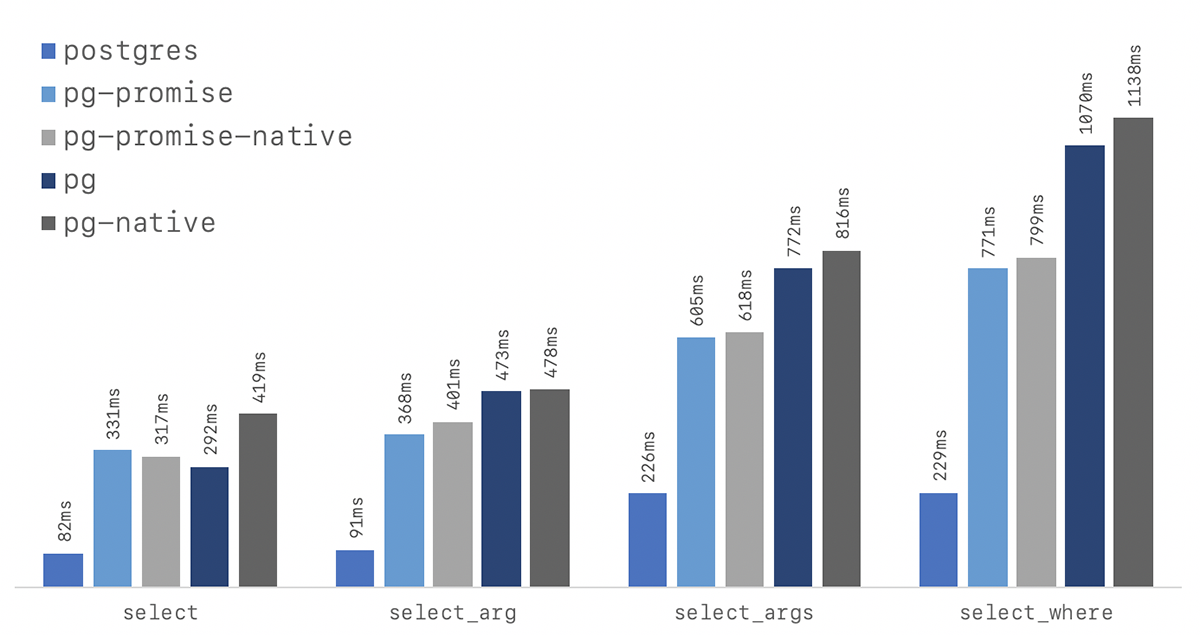
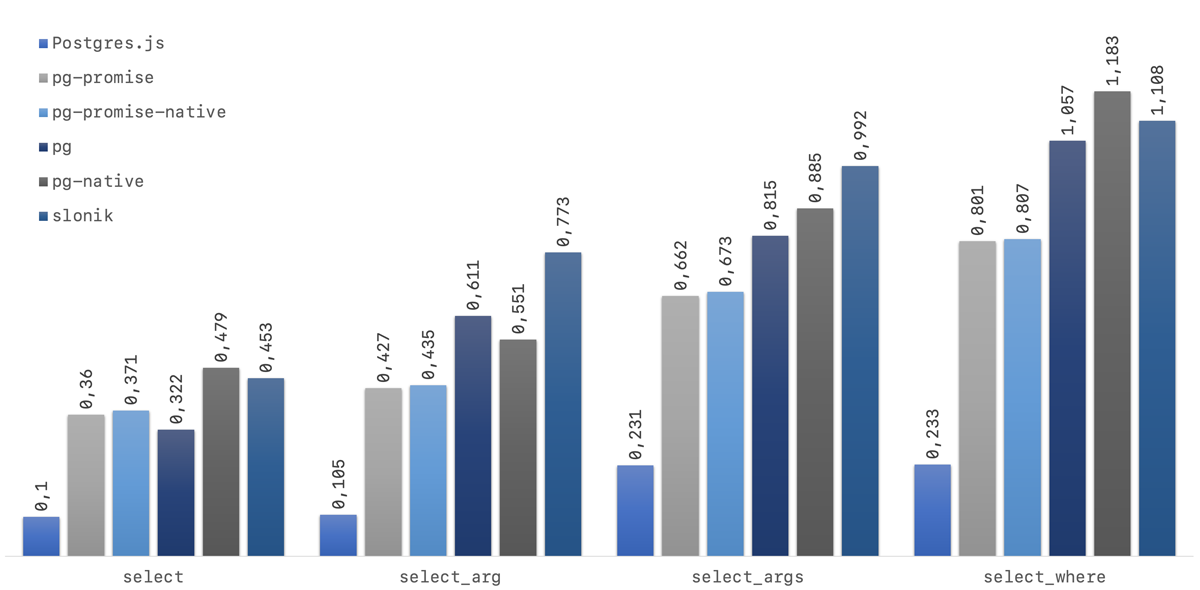
Rerun results

diff --git a/README.md b/README.md
@@ -13,16 +13,17 @@ Currently benchmarked libraries are
 
 ## Results
 
-These are the results from running the benchmarks on a Macbook Pro 2,9 GHz Quad-Core Intel Core i7 with a default Postgres 12 installation and Node 12.14.0.
+These are the results from running the benchmarks on a Macbook Pro 2,9 GHz Quad-Core Intel Core i7 with a default Postgres 12.6 installation and Node 12.20.1.
 The time is the average of 5 rounds, running the queries 10,000 times after some warmup rounds.
 
 client     |         select |     select_arg |    select_args |   select_where
 :--------- | -------------: | -------------: | -------------: | -------------:
-postgres   |    82ms (5.1x) |    91ms (5.3x) |   226ms (3.6x) |   229ms (5.0x)
-pg-promise |   331ms (1.3x) |   368ms (1.3x) |   605ms (1.3x) |   771ms (1.5x)
-pg-promise-native |   317ms (1.3x) |   401ms (1.2x) |   618ms (1.3x) |   799ms (1.4x)
-pg         |   292ms (1.4x) |   473ms (1.0x) |   772ms (1.1x) |  1070ms (1.1x)
-pg-native  |   419ms (1.0x) |   478ms (1.0x) |   816ms (1.0x) |  1138ms (1.0x)
+postgres   |  0.100s (4.8x) |  0.105s (7.4x) |  0.231s (4.3x) |  0.233s (5.1x)
+pg-promise |  0.360s (1.3x) |  0.427s (1.8x) |  0.662s (1.5x) |  0.801s (1.5x)
+pg-promise-native |  0.371s (1.3x) |  0.435s (1.8x) |  0.673s (1.5x) |  0.807s (1.5x)
+pg         |  0.322s (1.5x) |  0.611s (1.3x) |  0.815s (1.2x) |  1.057s (1.1x)
+pg-native  |  0.479s (1.0x) |  0.551s (1.4x) |  0.885s (1.1x) |  1.183s (1.0x)
+slonik     |  0.453s (1.1x) |  0.773s (1.0x) |  0.992s (1.0x) |  1.108s (1.1x)
 
 ![results chart](results.png)
 > lower is better
